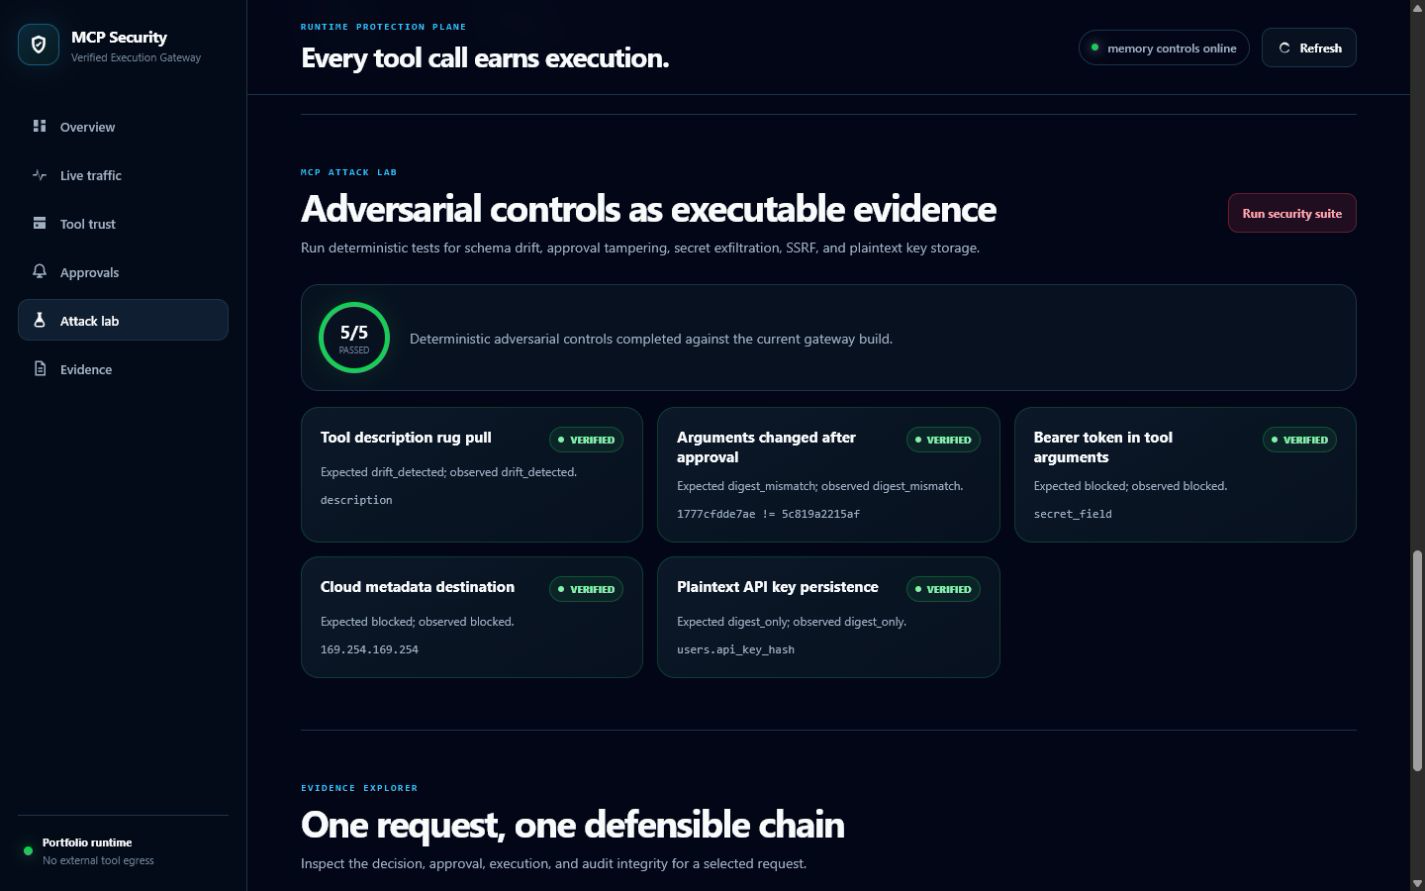
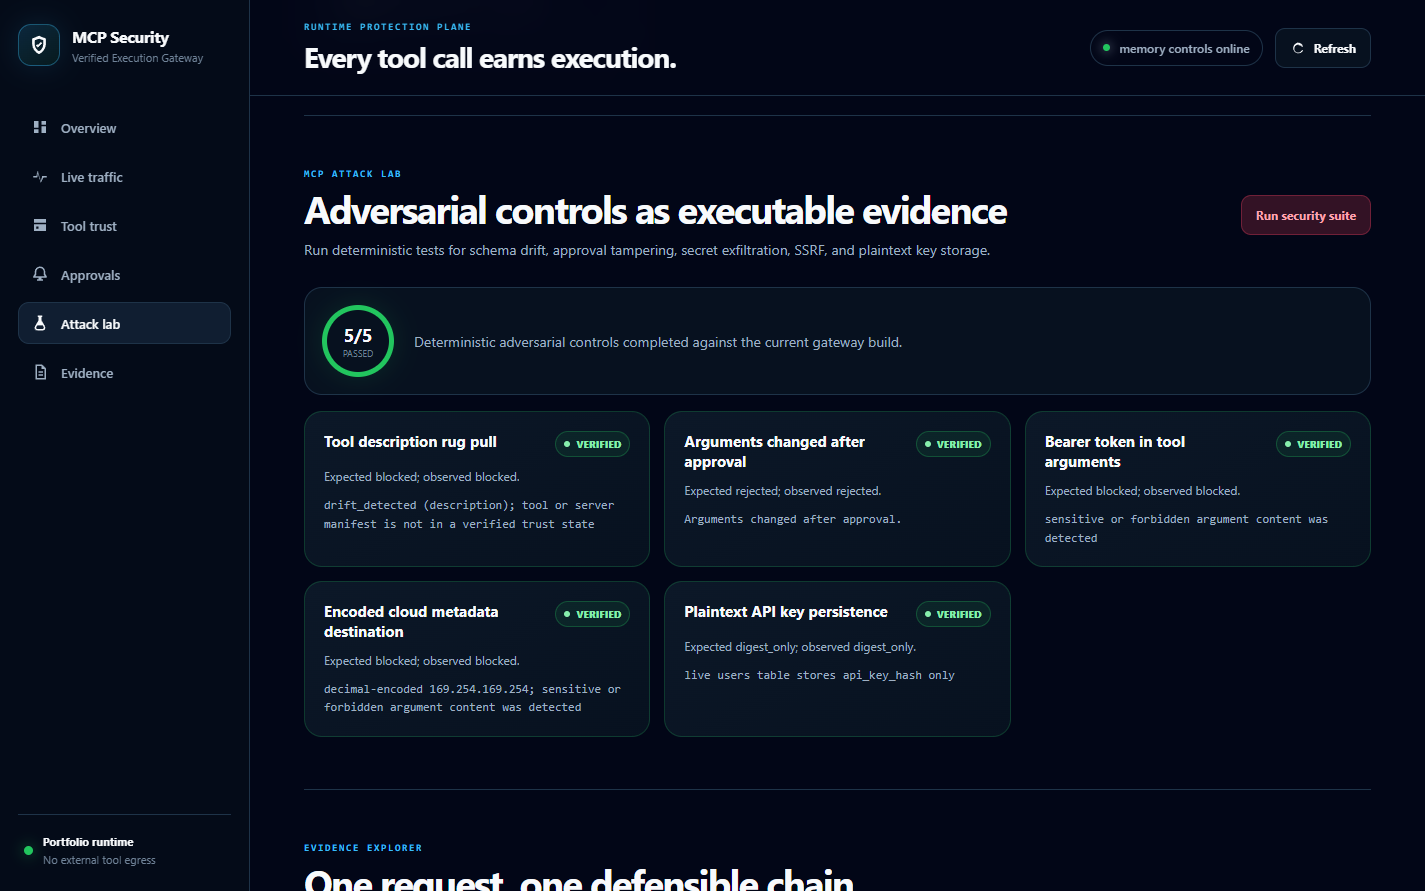
Refresh product screenshots and demo GIF
Regenerated from the running gateway on a clean demo database with the
same walkthrough as the presenter script: guided defense, approval,
Attack Lab, maker lease claim and execution, then the overview.

- policy-enforcement shows decision reasons and an expanded control
  trace with argument DLP failing on a secret
- approval-workbench shows the tool, justification, and redacted payload
- attack-lab shows attacks replayed through the gateway, 5/5
- evidence-chain includes the maker's lease_claimed event
- the demo GIF keeps the five-scene, two-second-per-scene loop at
  1200x750 with per-frame palettes, at half the previous file size
- README captions and the product demo table match the new frames

diff --git a/README.md b/README.md
@@ -44,11 +44,11 @@ maker-checker approval, adversarial security tests, execution, and evidence.
 
 | Stage | Control | Observable proof |
 | --- | --- | --- |
-| Request | Scope, environment, DLP, and rate policy | `executed`, `awaiting approval`, or `blocked` before side effects |
-| Approval | Maker-checker separation | Exact payload digest and assigned checker |
-| Attack testing | Deterministic MCP abuse cases | Rug pull, tampering, secret egress, SSRF, and key-storage checks |
-| Execution | One-time capability lease | Caller, manifest, arguments, policy, and expiry re-verified |
-| Evidence | HMAC-linked audit events | Policy, approval, and execution chain with integrity status |
+| Request | Scope, environment, DLP, rate, and adapter policy | `executed`, `awaiting approval`, or `blocked` before side effects, with the reason and per-control trace |
+| Approval | Maker-checker separation | Tool, justification, redacted payload, and digest shown to the checker |
+| Attack testing | MCP abuse cases replayed through the gateway | Rug pull, tampering, secret egress, encoded SSRF, and key-storage checks |
+| Execution | One-time capability lease claimed by the maker | Caller, manifest, arguments, policy, and expiry re-verified |
+| Evidence | HMAC-linked audit events | Policy, approval, lease claim, and execution chain with integrity status |
 
 The operator-led version takes about 90 seconds. See the
 [presenter script](docs/DEMO_GUIDE.md) for the exact credential switches and
@@ -162,34 +162,37 @@ by the automated tests.
 
 ### 1. Policy enforcement before execution
 
-![Policy decisions and pinned MCP tool manifests](docs/assets/policy-enforcement.png)
+![Policy decisions with an expanded control trace](docs/assets/policy-enforcement.png)
 
 One table separates policy decision from execution state. Safe knowledge access
 executes, a regulated write pauses, and forbidden production or secret-bearing
-calls are contained.
+calls are contained. Every row states its reason; the expanded trace shows
+argument DLP failing on a secret while the stored arguments stay redacted.
 
 ### 2. Maker-checker approval bound to the payload
 
 ![Maker-checker exact payload approval](docs/assets/approval-workbench.png)
 
-The reviewer sees the request identity, payload digest, maker, and checker.
-Approval lets only the maker claim a short-lived capability lease for that
-immutable payload.
+The reviewer sees the tool, justification, redacted payload, payload digest,
+maker, and checker. Approval lets only the maker claim a short-lived capability
+lease for that immutable payload.
 
 ### 3. Adversarial controls as executable evidence
 
 ![MCP Attack Lab showing five verified controls](docs/assets/attack-lab.png)
 
-The Attack Lab verifies manifest rug-pull detection, post-approval argument
-tampering, secret exfiltration, cloud-metadata SSRF, and digest-only API-key
-storage.
+The Attack Lab replays manifest rug pulls, post-approval argument tampering,
+secret exfiltration, and a decimal-encoded cloud-metadata SSRF destination
+through the real gateway flow on an isolated replica, and checks digest-only
+API-key storage. Each card shows the gateway's own rejection.
 
 ### 4. Tamper-evident evidence chain
 
-![Verified policy approval and execution evidence chain](docs/assets/evidence-chain.png)
+![Verified policy, approval, lease, and execution evidence chain](docs/assets/evidence-chain.png)
 
-The evidence explorer links policy, approval, and execution events and verifies
-the organization audit chain before presenting the evidence-pack digest.
+The evidence explorer links the policy decision, the checker's approval, the
+maker's lease claim, and the execution, and verifies the organization audit
+chain before presenting the evidence-pack digest.
 
 ## API Surface
 

diff --git a/CHANGELOG.md b/CHANGELOG.md
@@ -56,7 +56,11 @@ Significant changes to the MCP Security Gateway are documented here.
   checker sees what "Approve exact payload" approves;
 - render attacker-controlled arguments and justifications as text only; a
   browser probe with `<img onerror>`, `<script>`, and event-handler payloads
-  injected no elements.
+  injected no elements;
+- keep request row actions on one line when a decision trace is expanded;
+- refreshed the product screenshots and demo GIF from a clean demo database so
+  they show decision traces, approval payloads, replayed attacks, and the lease
+  claim.
 
 ### Testing
 
